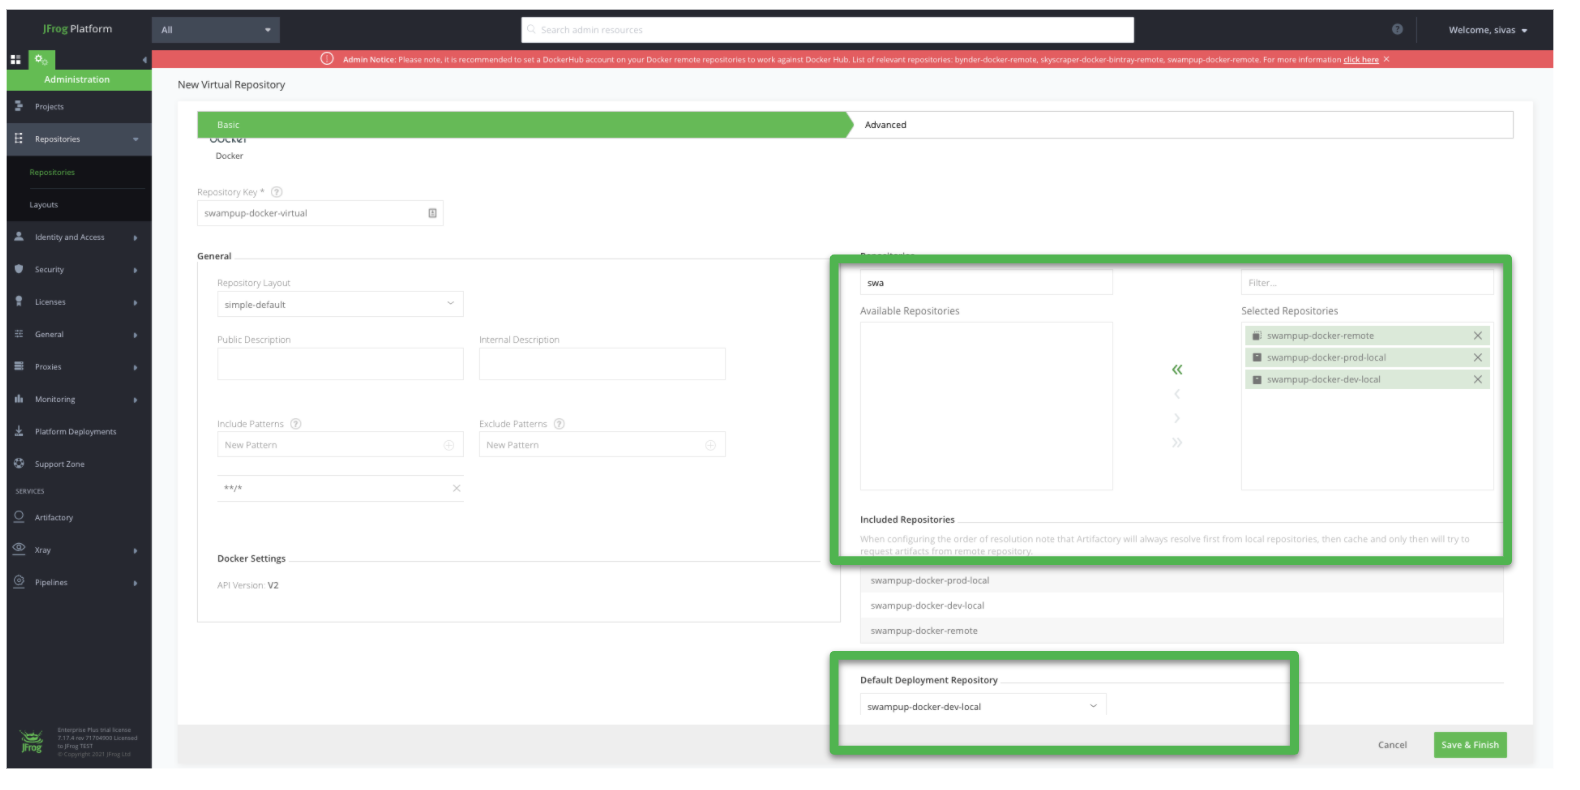
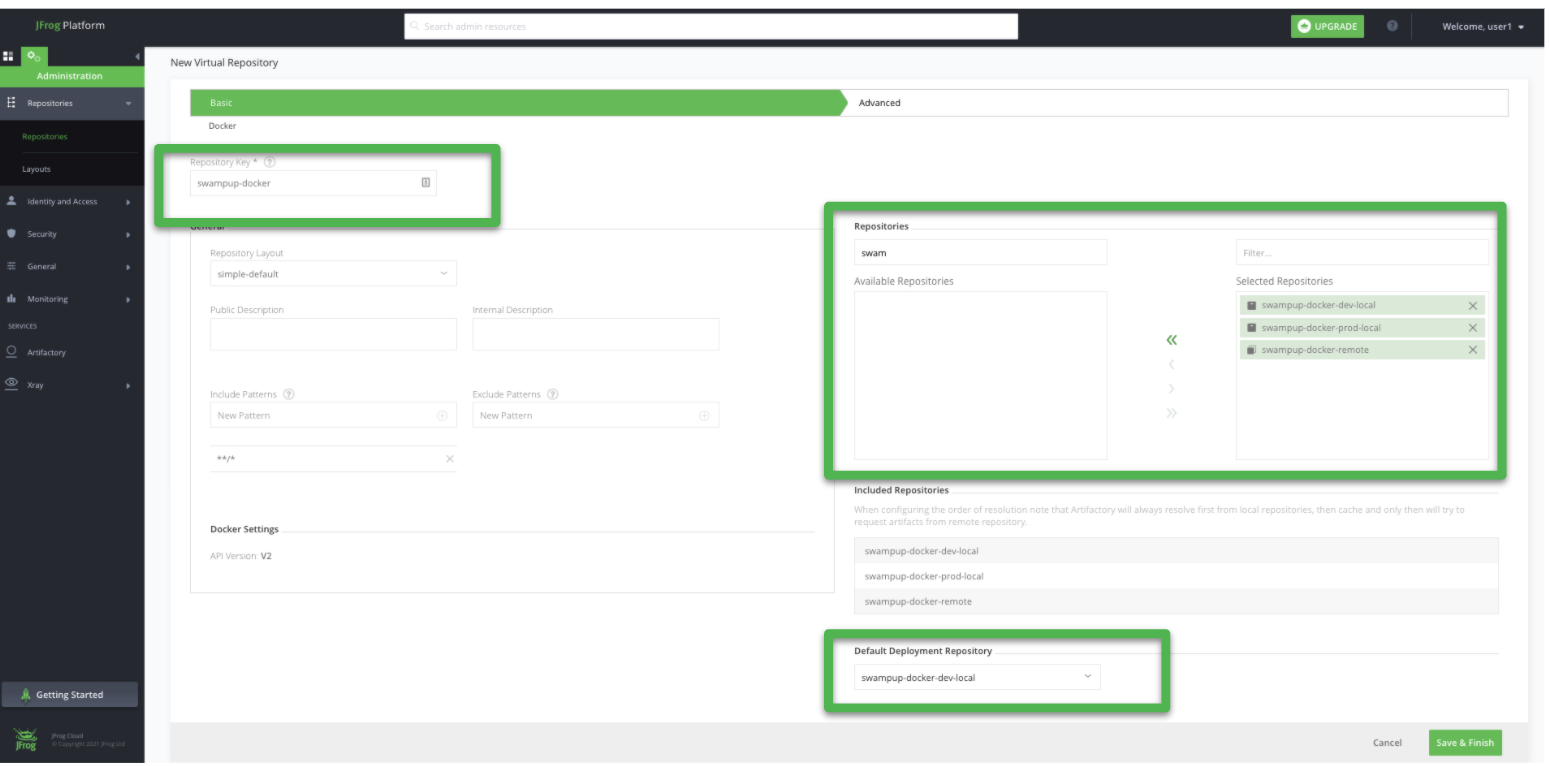
Lab2

diff --git a/SU-113-Jfrog-Artifactory-Essentials/Lab4/README.md b/SU-113-Jfrog-Artifactory-Essentials/Lab4/README.md
@@ -20,7 +20,7 @@
     - The SERVER_NAME is the first part of the URL given to you for your environment: ```https://<SERVER_NAME>.jfrog.io.``` You can also get this information from the docker login command from Lab2
       <img src="/SU-113-Jfrog-Artifactory-Essentials/Lab4/images/docker-commands.png" alt="docker commands" style="height: 100px; width:100px;"/>
 
-    - The VIRTUAL_REPO_NAME is the name “docker” that you assigned to your virtual repository in Step 3 on Lab2.
+    - The VIRTUAL_REPO_NAME is the name “swampup-docker” that you assigned to your virtual repository in Step 3 on Lab2.
     - After modifying your dockerfile should be something like below
       <img src="/SU-113-Jfrog-Artifactory-Essentials/Lab4/images/modified-dockerfile.png" alt="dockerfile" style="height: 100px; width:100px;"/>
     
